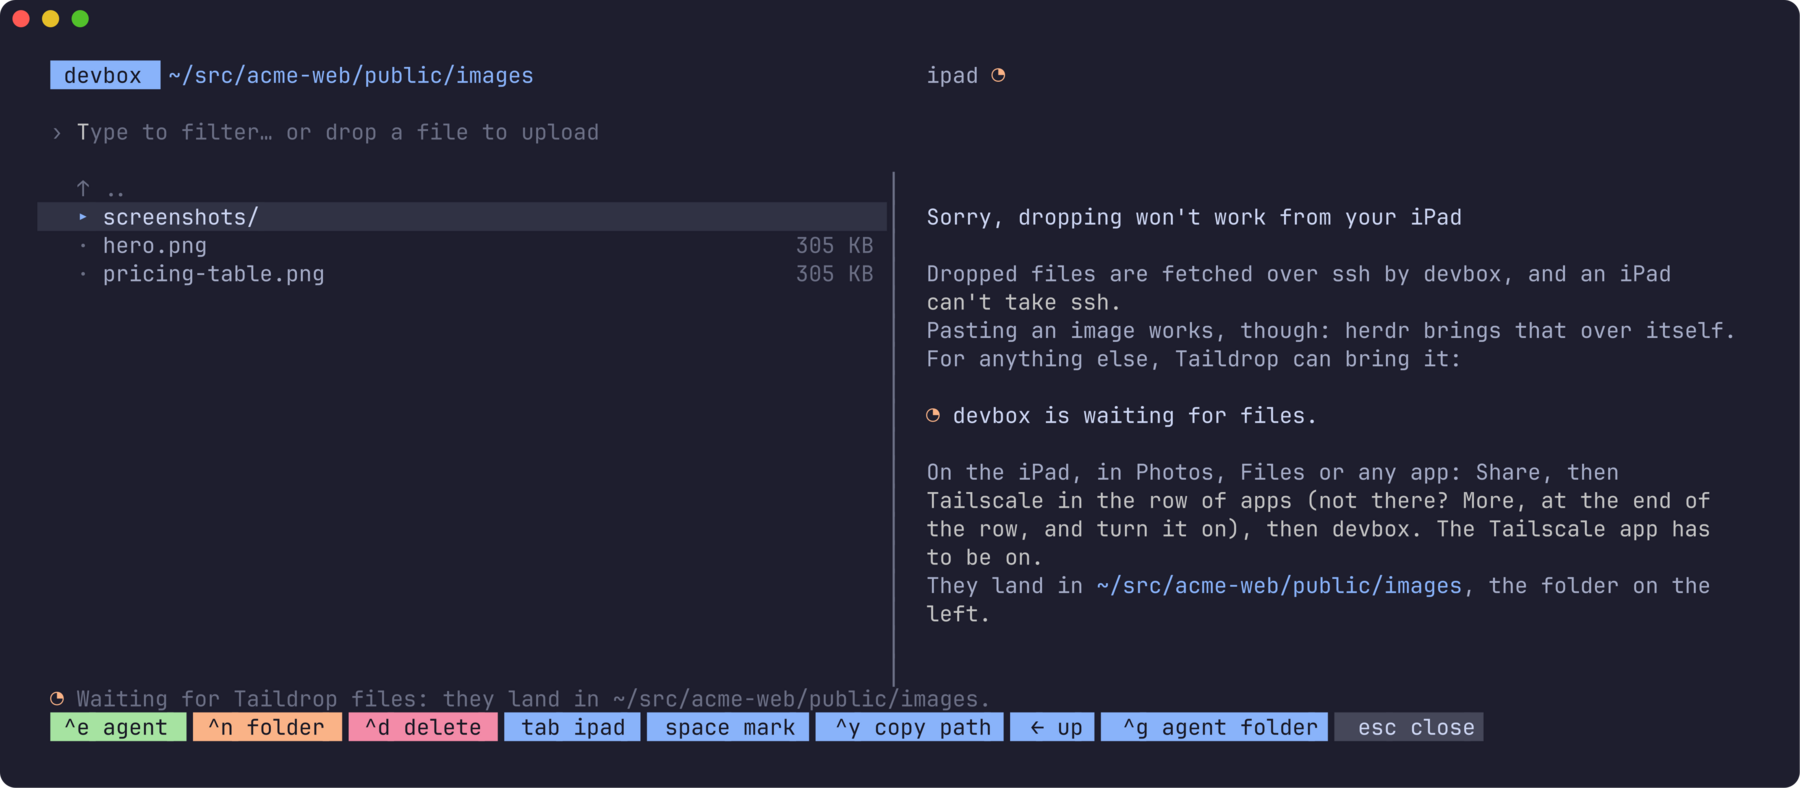
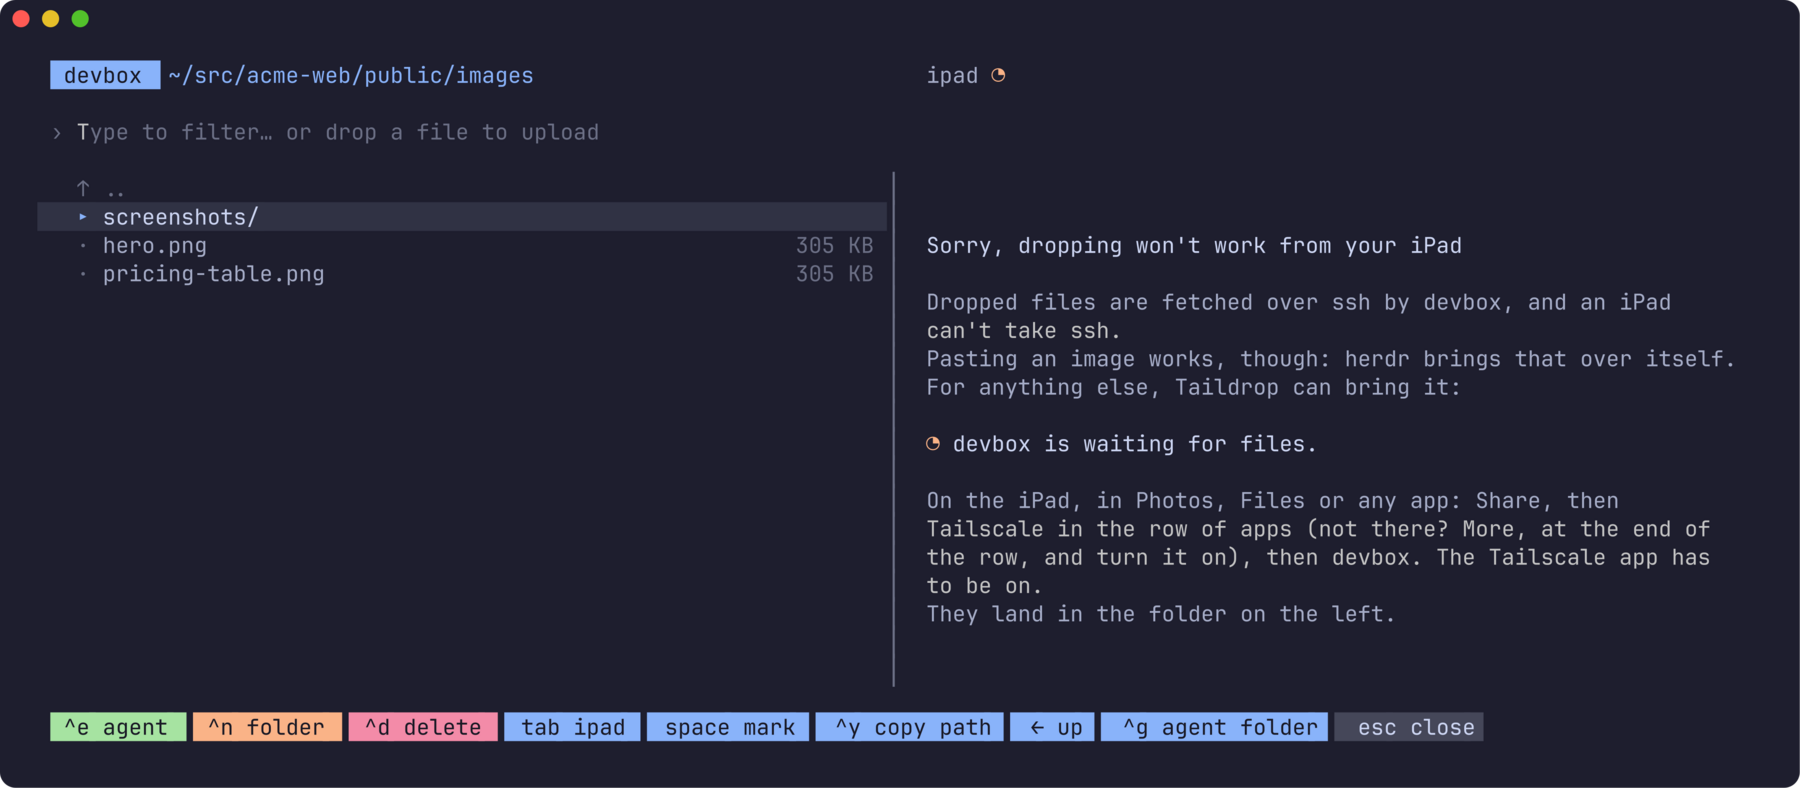
fix: Taildrop's waiting said once, without the path the header shows
Side by side, the iPad's panel says it; the status line stays quiet. With
tabs, a spinner and "Waiting for Taildrop files" there, the panel a tab
away.

diff --git a/tui_test.go b/tui_test.go
@@ -338,7 +338,7 @@ func TestSetupPanel(t *testing.T) {
 	m.probes["ipad-pro"] = &probeResult{err: errMobile}
 	m = drive(t, m, tea.WindowSizeMsg{Width: 140, Height: 30})
 	view := ansi.Strip(m.View())
-	for _, want := range []string{"Invoices/", "Sorry, dropping won't work from your iPad", "then Tailscale", serverName() + " is waiting for files", "lands in"} {
+	for _, want := range []string{"Invoices/", "Sorry, dropping won't work from your iPad", "then Tailscale", serverName() + " is waiting for files", "They land in the folder on the left."} {
 		if !strings.Contains(view, want) {
 			t.Errorf("iPad panes lack %q:\n%s", want, view)
 		}
@@ -366,7 +366,7 @@ func TestSetupPanel(t *testing.T) {
 	}
 	// Waiting for Taildrop shows on the folders' tab too: a spinner, and where.
 	m.taildrop = &taildropState{cancel: func() {}}
-	if view = ansi.Strip(m.View()); !strings.Contains(view, "Waiting for Taildrop files: they land in") || !strings.Contains(view, "ipad-pro "+ansi.Strip(m.spin.View())) {
+	if view = ansi.Strip(m.View()); !strings.Contains(view, "Waiting for Taildrop files") || !strings.Contains(view, "ipad-pro "+ansi.Strip(m.spin.View())) {
 		t.Errorf("the folders' tab doesn't say Taildrop's waiting:\n%s", view)
 	}
 	m.taildrop = nil

diff --git a/tui.go b/tui.go
@@ -902,16 +902,16 @@ func (m model) statusLine() string {
 	return styleDim.Render(shorten(" Drop files or folders on this window to copy them into "+tildify(m.dir)+".", w)) + "\n"
 }
 
-// taildropStatus is where Taildrop puts what it brings, and whether it's
-// waiting: with tabs, the iPad's panel saying so is a tab away.
+// taildropStatus is whether Taildrop's waiting, with tabs: the iPad's panel
+// saying so is a tab away. Side by side, the panel says it.
 func (m model) taildropStatus(w int) string {
 	switch {
-	case m.taildrop != nil && m.taildrop.err != "":
+	case m.panes() || m.taildrop == nil:
+		return "\n"
+	case m.taildrop.err != "":
 		return " " + styleErr.Render(shorten(clean(m.taildrop.err, false), w)) + "\n"
-	case m.taildrop != nil:
-		return " " + m.spin.View() + styleDim.Render(shorten(" Waiting for Taildrop files: they land in "+tildify(m.dir)+".", w-2)) + "\n"
 	}
-	return styleDim.Render(shorten(" What Taildrop brings lands in "+tildify(m.dir)+": browse to the folder you want.", w)) + "\n"
+	return " " + m.spin.View() + styleDim.Render(" Waiting for Taildrop files") + "\n"
 }
 
 func (m model) footer() []hint {

diff --git a/setup.go b/setup.go
@@ -376,11 +376,11 @@ func (m model) viewTaildrop(s sender, server string) []string {
 		for _, h := range howTaildrop {
 			out = append(out, styleText.Render(h))
 		}
-		shown := ", the folder shown."
+		where := "They land in the folder open on " + server + "'s tab."
 		if m.panes() {
-			shown = ", the folder on the left."
+			where = "They land in the folder on the left."
 		}
-		out = append(out, styleText.Render("They land in ")+styleTree.Render(tildify(m.dir))+styleText.Render(shown))
+		out = append(out, styleText.Render(where))
 	}
 	return out
 }
